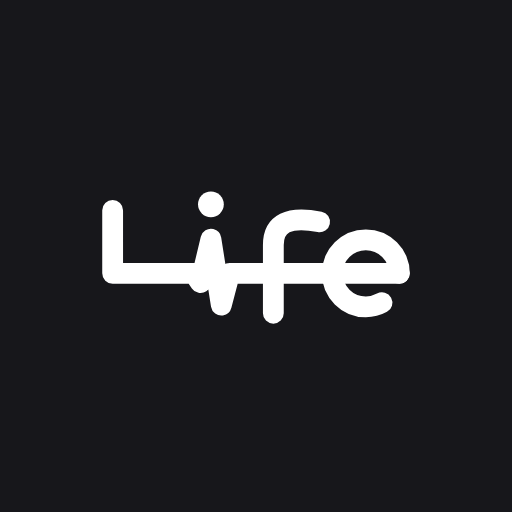
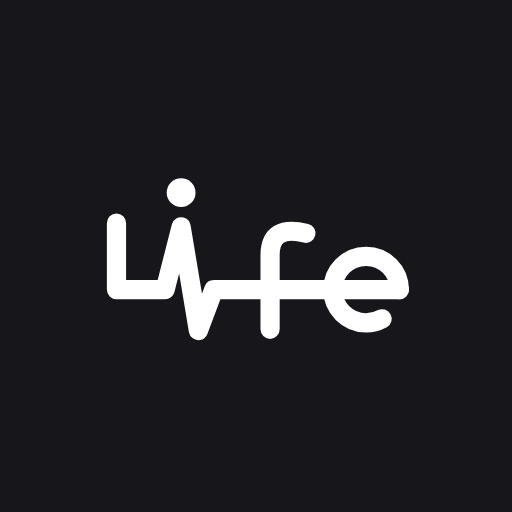
Логотип: та сама форма хвилі, що обрана, і більша крапка
Знак був зібраний на пізнішій, загостреній версії кардіограми — а обрана
була рання: широка висока хвиля й лінія 30. Повертаю саме її.

Крапка над хвилею збільшена (0.75 від товщини лінії): на 60 пікселях
менша читалась радше як потовщення лінії, ніж як крапка над «i».

Весь знак опущений у боксі: висока вершина хвилі впирається в край, а над
нею ще має стати крапка.

Опис у README виправлено — колишнє пояснення («сплеск нижчий за L і далі
від неї») стосувалось тієї версії, якої більше немає. Тут слово тримає
саме крапка: без неї висока хвиля поруч із «L» читається як «4fe».

Claude-Session: https://claude.ai/code/session_011SFxU53Yk2yNQLJMEjVmsf

Changed region(s): [[0.1875, 0.3438, 0.8125, 0.6875]]

diff --git a/README.md b/README.md
@@ -845,19 +845,23 @@ SDK (`initializeApp`, `auth`, `firestore` — `appCheck` і `functions`
   через `../budget/`. Тека в корені не приписує спільне майно одному розділу.
 
   **Логотип** — слово «Life», намальоване однією лінією кардіограми: ніжка «L»
-  стікає в лінію, сплеск працює як «i» (звідси й крапка над ним), з тієї ж лінії
-  росте «f» — вона ж його поперечка, — а «e» петлею випускає лінію хвостом.
-  Біле на майже чорному: серед кольорових іконок на телефоні темна плитка
-  рідкість, і око чіпляється саме за неї.
+  стікає в лінію, хвиля пульсу працює як «i», з тієї ж лінії росте «f» — вона ж
+  його поперечка, — а «e» петлею випускає лінію хвостом. Біле на майже чорному:
+  серед кольорових іконок на телефоні темна плитка рідкість, і око чіпляється
+  саме за неї.
 
-  Дорога сюди варта запису, бо два очевидні підходи не спрацювали. Провести
-  пульс НАСКРІЗЬ через набране слово не вийшло: у важкому шрифті немає
-  порожнього місця на рівні літер, і сплеск або зʼїдав «i» (лишалось «Lfe»),
-  або, потрапивши в кут «L», перетворював її на «M». Коли ж літери намалювали
-  самою лінією, а сплеск зробили гострим і високим, слово почало читатись як
-  **«4fe»** — два високі вертикальні штрихи поруч зливаються в четвірку.
-  Врятувало те, що сплеск має бути **нижчим** за «L» і стояти **далі** від неї,
-  а над ним — крапка: саме вона й робить його літерою, а не просто піком.
+  Дорога сюди варта запису, бо очевидний підхід не спрацював. Провести пульс
+  НАСКРІЗЬ через набране слово не вийшло: у важкому шрифті немає порожнього
+  місця на рівні літер, і сплеск або зʼїдав «i» (лишалось «Lfe»), або,
+  потрапивши в кут «L», перетворював її на «M». Довелось малювати самі літери
+  лінією пульсу — і тоді зʼявилась протилежна біда: висока хвиля поруч із «L»
+  читалась як **«4fe»**, бо два вертикальні штрихи зливаються в четвірку.
+
+  Вирішила це **крапка над хвилею**. Вона не декорація: саме вона перетворює
+  сплеск на літеру «i», і без неї слово розсипається — що добре видно, якщо
+  прибрати її й лишити все решта як є. Тому хвиля лишилась високою й широкою,
+  як і задумано, а зверху над нею стоїть крапка, і заради неї весь знак
+  опущений у боксі (`SHIFT`) — інакше їй просто немає куди стати.
 
   `maskable`-варіанти для Android — окремі файли: тло на весь квадрат (систему
   саме воно й обріже), а сам знак стиснутий у безпечне коло, інакше Android
